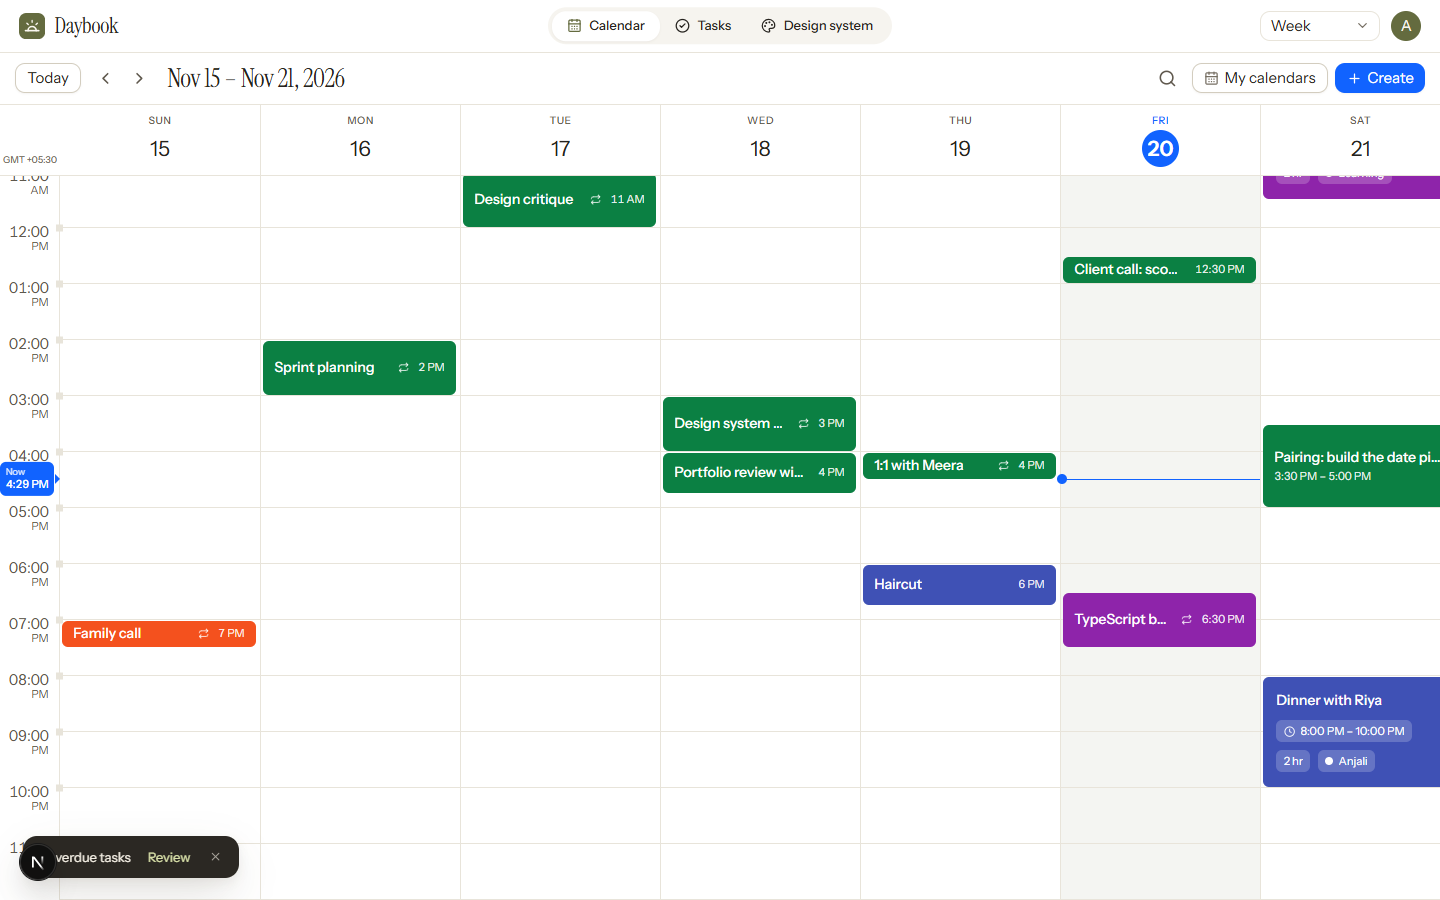
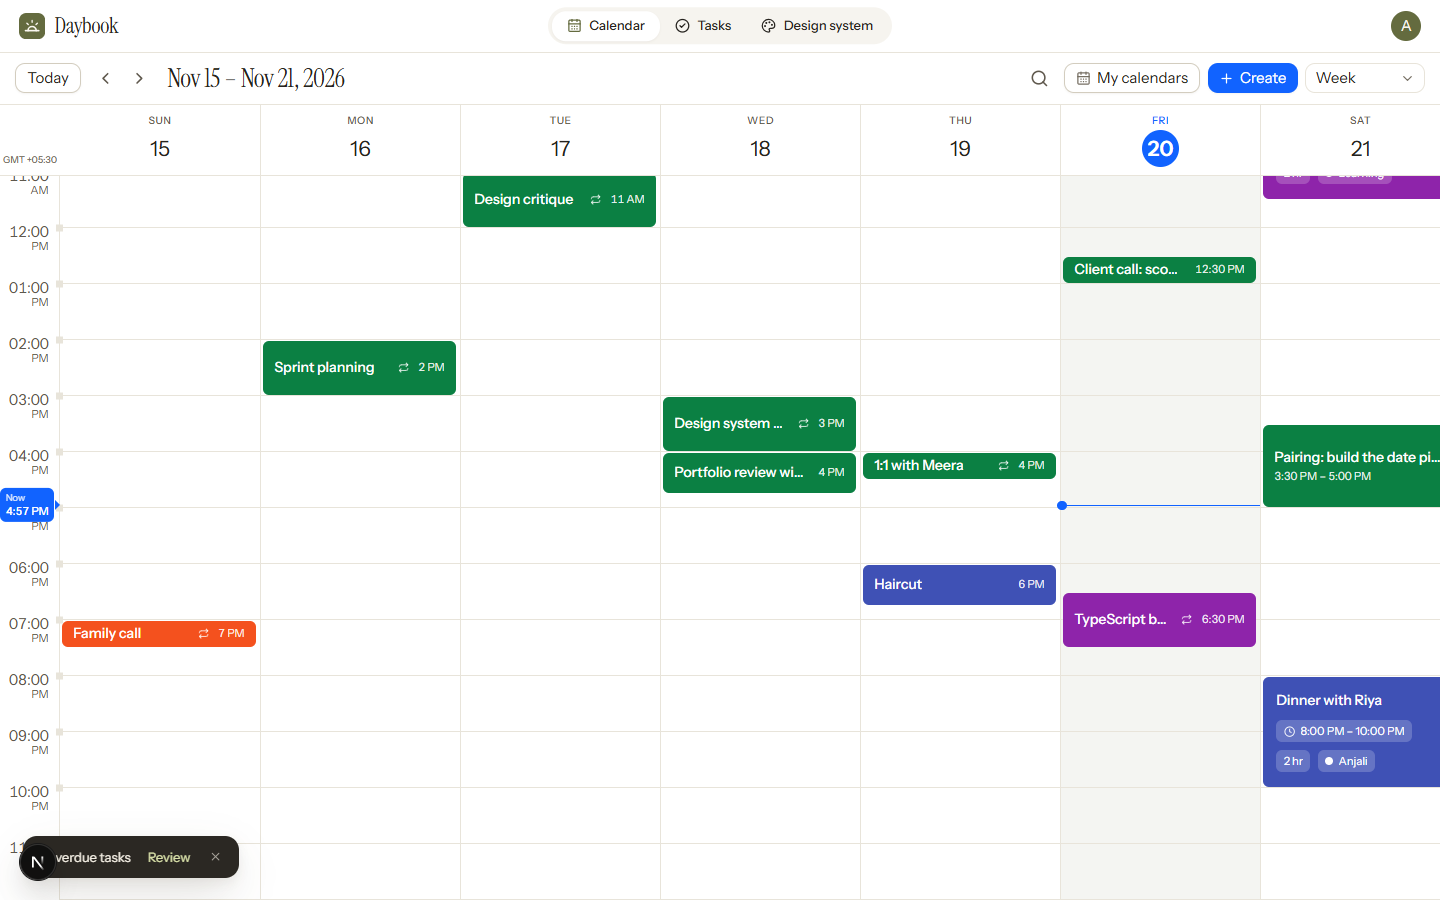
Put the Day / Week / Month switch back in the date row
The switch returns to its original place under the app header. Tasks
still follows the Calendar's view: choosing Day on one opens the other
in Day too.

Changed region(s): [[0.75, 0.0622, 1.0, 0.1244], [0.0, 0.4978, 0.0625, 0.5911], [0.875, 0.0, 0.9062, 0.0311]]

diff --git a/components/shell/DateHeader.tsx b/components/shell/DateHeader.tsx
@@ -2,23 +2,36 @@
 import type { ReactNode } from "react";
 import { CalendarClock, ChevronLeft, ChevronRight } from "lucide-react";
 import { Button, IconButton } from "@/components/ui/Button";
+import { Select, SelectContent, SelectItem, SelectTrigger, SelectValue } from "@/components/ui/select";
+
+export interface ViewOption<T extends string> {
+  value: T;
+  label: string;
+  hint?: string;
+}
 
 /**
  * The one header both tabs share: Today, previous/next, the date being shown,
- * and any extra controls. The Day / Week / Month switch lives in the top app header.
+ * and the Day / Week / Month switch. Nothing else lives here.
  */
-export function DateHeader({
+export function DateHeader<T extends string>({
   title,
+  view,
+  views,
+  onView,
   onToday,
   onStep,
   stepLabel,
   right,
 }: {
   title: string;
+  view: T;
+  views: ViewOption<T>[];
+  onView: (v: T) => void;
   onToday: () => void;
   onStep: (dir: 1 | -1) => void;
   stepLabel: string;
-  /** Extra controls on the right (Calendar: search, My calendars, Create). */
+  /** Extra controls placed just before the view switch (Calendar: My calendars). */
   right?: ReactNode;
 }) {
   return (
@@ -42,6 +55,21 @@ export function DateHeader({
       </IconButton>
 
       {right}
+
+      <div className="w-[6.75rem] shrink-0 md:w-32">
+        <Select value={view} onValueChange={(v) => onView(v as T)}>
+          <SelectTrigger aria-label="View" className="h-8">
+            <SelectValue />
+          </SelectTrigger>
+          <SelectContent align="end">
+            {views.map((o) => (
+              <SelectItem key={o.value} value={o.value}>
+                {o.label}
+              </SelectItem>
+            ))}
+          </SelectContent>
+        </Select>
+      </div>
     </div>
   );
 }

diff --git a/components/calendar/Toolbar.tsx b/components/calendar/Toolbar.tsx
@@ -23,6 +23,7 @@ export function CalendarToolbar({ view, anchor, visible, go }: { view: CalView; 
   const today = useToday();
   const mobile = useIsMobile();
   const setAnchor = useUI((s) => s.setCalAnchor);
+  const setView = useUI((s) => s.setCalView);
   const openEditor = useUI((s) => s.openEventEditor);
 
   const title = useMemo(() => {
@@ -38,11 +39,21 @@ export function CalendarToolbar({ view, anchor, visible, go }: { view: CalView; 
     return `${fmt.month(a, "short")} ${A.y} – ${fmt.month(b, "short")} ${B.y}`;
   }, [view, anchor, visible, fmt, mobile]);
 
+  const viewOptions = [
+    { value: "day" as const, label: "Day", hint: "D" },
+    { value: "week" as const, label: mobile ? "3 days" : "Week", hint: "W" },
+    { value: "month" as const, label: "Month", hint: "M" },
+    { value: "schedule" as const, label: "Schedule", hint: "A" },
+  ];
+
   const stepLabel = view === "month" ? "month" : view === "day" ? "day" : view === "schedule" ? "week" : mobile ? "3 days" : "week";
 
   return (
     <DateHeader
       title={title}
+      view={view}
+      views={viewOptions}
+      onView={setView}
       onToday={() => setAnchor(today)}
       onStep={go}
       stepLabel={stepLabel}

diff --git a/components/shell/Header.tsx b/components/shell/Header.tsx
@@ -7,7 +7,6 @@ import { cn } from "@/lib/cn";
 import { Menu } from "@/components/ui/Menu";
 import { Badge } from "@/components/ui/Controls";
 import { LogoMark } from "./Logo";
-import { ViewSwitch } from "./ViewSwitch";
 import { useUI } from "@/lib/store/ui";
 import { supabaseBrowser } from "@/lib/supabase/browser";
 import { isSupabaseConfigured } from "@/lib/supabase/config";
@@ -65,8 +64,7 @@ export function Header() {
         </ul>
       </nav>
 
-      <div className="ml-auto flex items-center gap-2">
-        <ViewSwitch />
+      <div className="ml-auto flex items-center gap-1">
         <Menu
           placement="bottom-end"
           className="w-64"

diff --git a/components/tasks/TasksScreen.tsx b/components/tasks/TasksScreen.tsx
@@ -225,6 +225,13 @@ export function TasksScreen() {
     <div className="flex h-full min-h-0 flex-col">
       <DateHeader
         title={title}
+        view={view}
+        views={[
+          { value: "day", label: "Day" },
+          { value: "week", label: "Week" },
+          { value: "month", label: "Month" },
+        ]}
+        onView={setView}
         onToday={goToday}
         onStep={step}
         stepLabel={view}

diff --git a/docs/changelog/CHANGELOG.md b/docs/changelog/CHANGELOG.md
@@ -9,19 +9,19 @@ A running record of every change requested, newest first, with screenshots. It l
 
 ---
 
-## 2026-11-20 — View switch in the top header, no Synced pill, Settings in the user menu
+## 2026-11-20 — Tasks follows the Calendar view, no Synced pill, Settings in the user menu
 
-**Asked for:** in the day view, no gap between the cards and the vertical line, and each hour line centred on its square; move the Day / Week / Month switch up to the top header, and make Tasks follow the Calendar's view; remove "Synced"; move the settings icon into the user menu.
+**Asked for:** in the day view, no gap between the cards and the vertical line, and each hour line centred on its square; make Tasks follow the Calendar's view (the Day / Week / Month switch was tried in the top header and put back in its original place); remove "Synced"; move the settings icon into the user menu.
 
 **What changed**
 - Day view: event cards now touch the vertical rail (no gap), the hour lines start at the rail, and each hour's square is centred on its line instead of sitting above it.
-- The Day / Week / Month switch is in the top header, on the right, on both Calendar and Tasks. It is gone from the second header row.
+- The Day / Week / Month switch stays in the second header row, where it was, on both Calendar and Tasks.
 - The two tabs share the choice: pick Day on the Calendar and Tasks opens in Day; change it on Tasks and the Calendar follows. Schedule exists only on the Calendar, so it does not change Tasks.
 - The "Synced … ago" pill is removed from the header. Last sync time and Sync now are in Settings → Account & sync. A failed sync still shows a message.
 - The settings gear is removed. **Settings** is now an item in the user (round letter) menu.
 - Settings no longer shows the "This app only" and "Starts from Google · app only" badges next to each setting, or the "Visibility and colours: this app only" badge on the Calendars list. The one "Not supported by Google" badge is unchanged.
 
-**Files:** `components/shell/ViewSwitch.tsx` (new), `components/shell/Header.tsx`, `components/shell/DateHeader.tsx`, `components/calendar/Toolbar.tsx`, `components/calendar/DayTimeline.tsx`, `components/tasks/TasksScreen.tsx`, `lib/store/ui.ts`; `components/settings/SettingsDialog.tsx`; `components/shell/SyncPill.tsx` deleted
+**Files:** `components/shell/Header.tsx`, `components/calendar/DayTimeline.tsx`, `lib/store/ui.ts`; `components/settings/SettingsDialog.tsx`; `components/shell/SyncPill.tsx` deleted
 
 **Screenshots** (`screenshots/2026-11-20-header-view-switch/`)
 ![Calendar header](screenshots/2026-11-20-header-view-switch/header-calendar.png)
